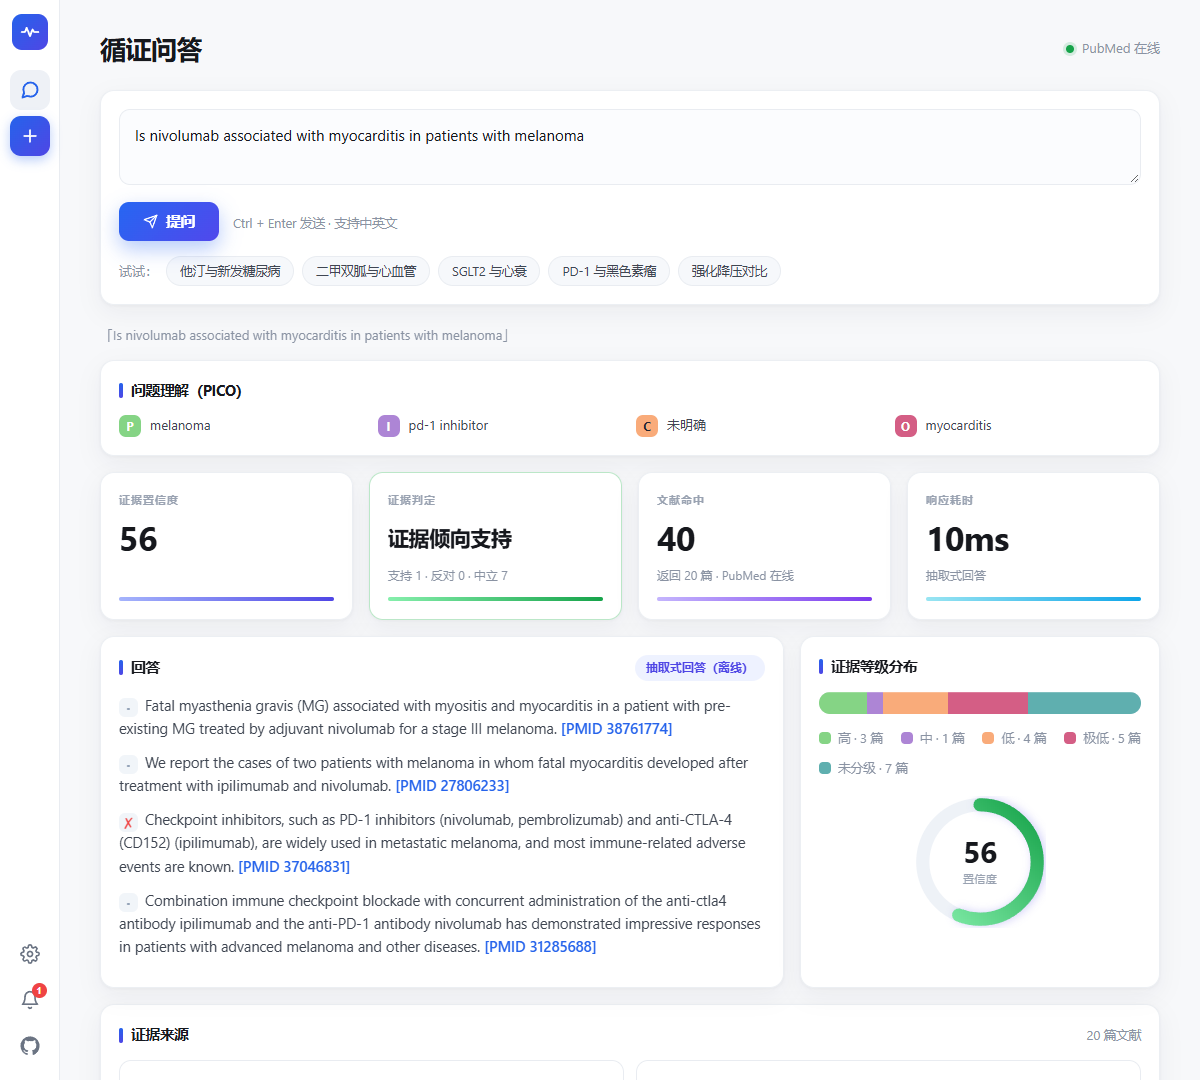
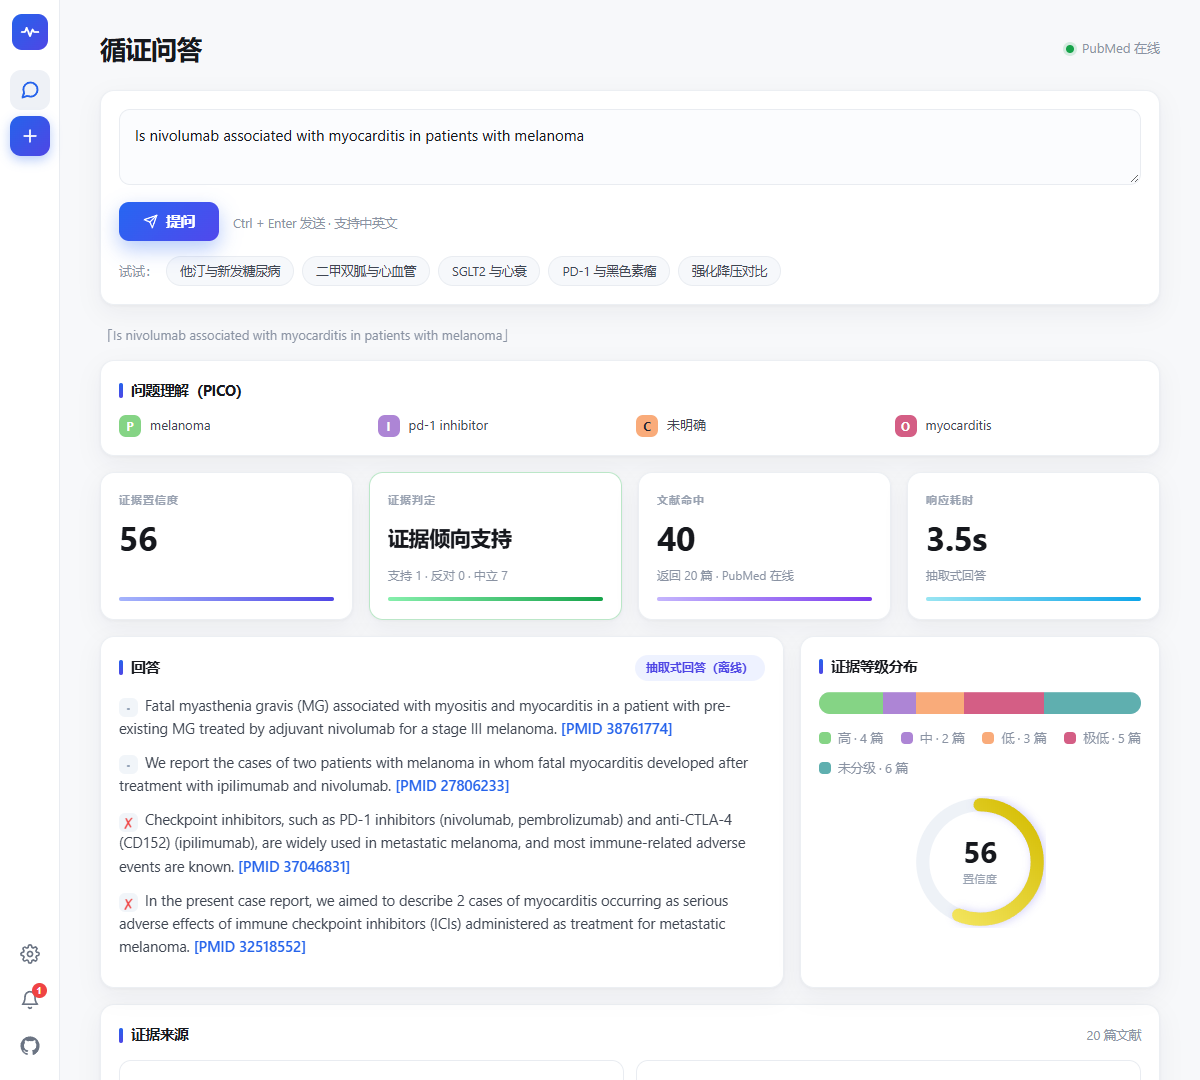
Color confidence ring by score tier: green/blue/yellow/red per level

diff --git a/static/app.js b/static/app.js
@@ -160,22 +160,24 @@ function renderPico(pico) {
 /* ---------- 置信度圆环 ---------- */
 const RING_R = 52;
 const RING_C = 2 * Math.PI * RING_R;
-const RING_COLORS = {
-  support: ["#86efac", "#16a34a"],
-  against: ["#fca5a5", "#ef4444"],
-  conflict: ["#fcd34d", "#f59e0b"],
-  neutral: ["#a5b4fc", "#4f46e5"],
-};
+// 按置信度分档配色（高绿 / 中青蓝 / 低黄 / 极低红，无数据灰）
+const RING_GRAY = ["#c9c9c9", "#A7A7A7"];
+function ringColorsFor(val) {
+  if (val >= 80) return ["#57d598", "#038f4a"];
+  if (val >= 60) return ["#82c8e6", "#4b97b8"];
+  if (val >= 40) return ["#f7ea6b", "#d4bc00"];
+  return ["#f69187", "#f0392c"];
+}
 
 function renderRing(confidence, state) {
   const val = Math.max(0, Math.min(100, confidence || 0));
   const ring = $("ringValue");
   ring.style.strokeDasharray = RING_C;
   ring.style.strokeDashoffset = RING_C * (1 - val / 100);
-  const [light, dark] = RING_COLORS[state] || RING_COLORS.neutral;
+  const [light, dark] = confidence ? ringColorsFor(val) : RING_GRAY;
   $("ringStop0").setAttribute("stop-color", light);
   $("ringStop1").setAttribute("stop-color", dark);
-  $("ringNum").textContent = val;
+  $("ringNum").textContent = confidence ? val : "–";
 }
 
 function renderDist(dist) {
